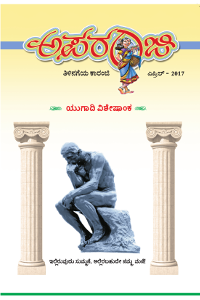
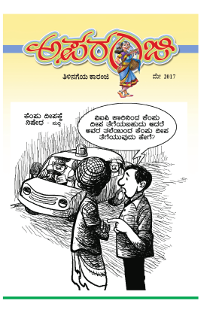
Commit No. 55 - May issue updated

diff --git a/index.php b/index.php
@@ -85,7 +85,7 @@ session_start();
 			echo "		  </div>
 				</div>";
 				
-			echo "<div class=\"cover\"><a href=\"Volumes/".$currentyear."_".$currentmonth.".pdf#page=1\" target=\"_blank\"><img src=\"php/images/cover1.png\" alt=\"".$month[$currentmonth-1]."\" title=\"".$month[$currentmonth-1]." ಸಂಚಿಕೆ\"/></a></div>";
+			echo "<div class=\"cover\"><a href=\"Volumes/".$currentyear."_".$currentmonth.".pdf#page=1\" target=\"_blank\"><img src=\"php/images/cover.png\" alt=\"".$month[$currentmonth-1]."\" title=\"".$month[$currentmonth-1]." ಸಂಚಿಕೆ\"/></a></div>";
 		?>
 			
 		

diff --git a/php/connect_db.php b/php/connect_db.php
@@ -4,7 +4,7 @@
 	$pwd="mysql";
 	$db="apr";
 	$volume='34';
-	$issue='7';
+	$issue='8';
 	
 	$db_con=mysql_connect("$host","$usr","$pwd");
 	mysql_select_db("$db",$db_con);
